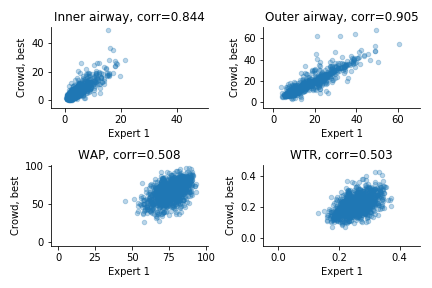
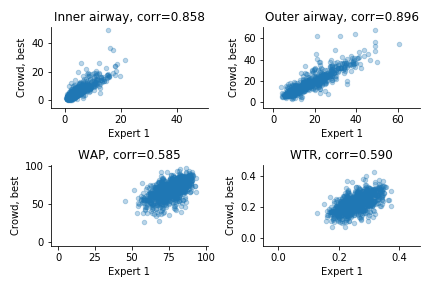
Fixed computation of best

diff --git a/main.py b/main.py
@@ -17,14 +17,13 @@ from parse import *
 import load_data as crowdload
 
 
-
 import analyze as crowdanalyze
 import combine as crowdcombine
 
 #Things that are working
 def main():
     
-    crowdload.process_data()  #This needs to be redone if anything in the preprocessing changes! 
+    #crowdload.process_data()  #This needs to be redone if anything in the preprocessing changes! 
     
     # Load all the processed files 
     df_task, df_res, df_annot, df_truth, df_subject = crowdload.get_df_processed() 
@@ -41,17 +40,17 @@ def main():
     
     
     #Combine results per task in different ways, first, pick a random result
-    df_task_random = crowdcombine.get_task_random(df_task, df_res_valid)
-    crowdanalyze.scatter_correlation_expert_crowd(df_task_random, df_truth, 'random')
+    #df_task_random = crowdcombine.get_task_random(df_task, df_res_valid)
+    #crowdanalyze.scatter_correlation_expert_crowd(df_task_random, df_truth, 'random')
     
     
     #Combine all results per task with median combining
-    #df_task_median = crowdcombine.get_task_median(df_task, df_res_valid)
+    df_task_median = crowdcombine.get_task_median(df_task, df_res_valid)
     #crowdanalyze.scatter_correlation_expert_crowd(df_task_median, df_truth, 'median')
 
     #Select best result per task (optimistically biased, uses ground truth!)
-    #df_task_best = crowdcombine.get_task_best(df_task, df_res_valid, df_truth) 
-    #crowdanalyze.scatter_correlation_expert_crowd(df_task_best, df_truth, 'best')
+    df_task_best = crowdcombine.get_task_best(df_task, df_res_valid, df_truth) 
+    crowdanalyze.scatter_correlation_expert_crowd(df_task_best, df_truth, 'best')
 
 
     #Correlation vs minimum number of available valid results 

diff --git a/combine.py b/combine.py
@@ -124,8 +124,14 @@ def get_task_best(df_task, df_res_valid, df_truth):
        
         
         task_truth = df_truth.loc[df_truth['task_id'] == task_id]
-        truth_diff = np.abs(task_results['outer'].to_numpy() - task_truth['outer1'].to_numpy()) #Assumption - selecting based on outer, but could be one of the others
+        
+        # Measuring best by sum of absolute differences of inner and outer airways 
+        outer_diff = np.abs(task_results['outer'].to_numpy() - task_truth['outer1'].to_numpy()) 
+        inner_diff = np.abs(task_results['inner'].to_numpy() - task_truth['inner1'].to_numpy()) 
 
+        truth_diff = outer_diff + inner_diff
+        
+        
         if all(np.isnan(truth_diff)):
             outer_best = np.nan
             inner_best = np.nan
